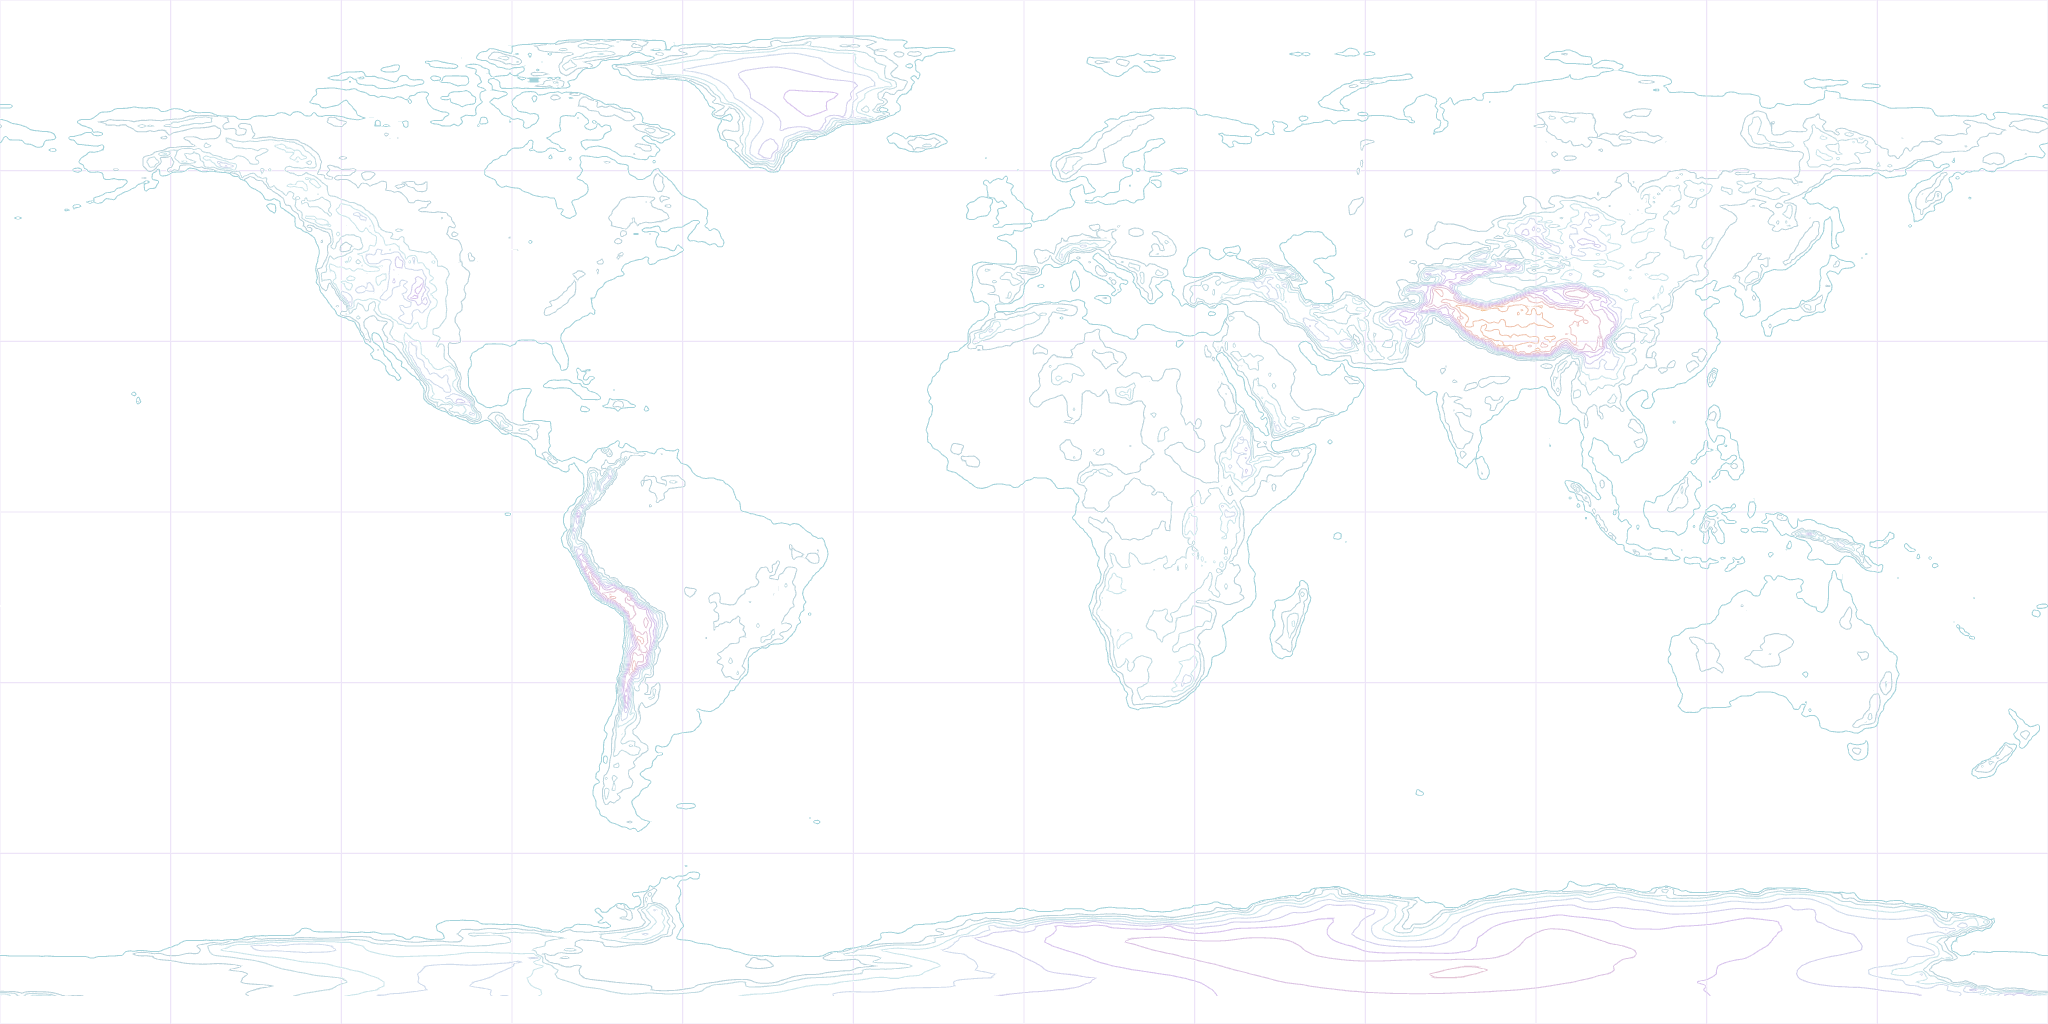
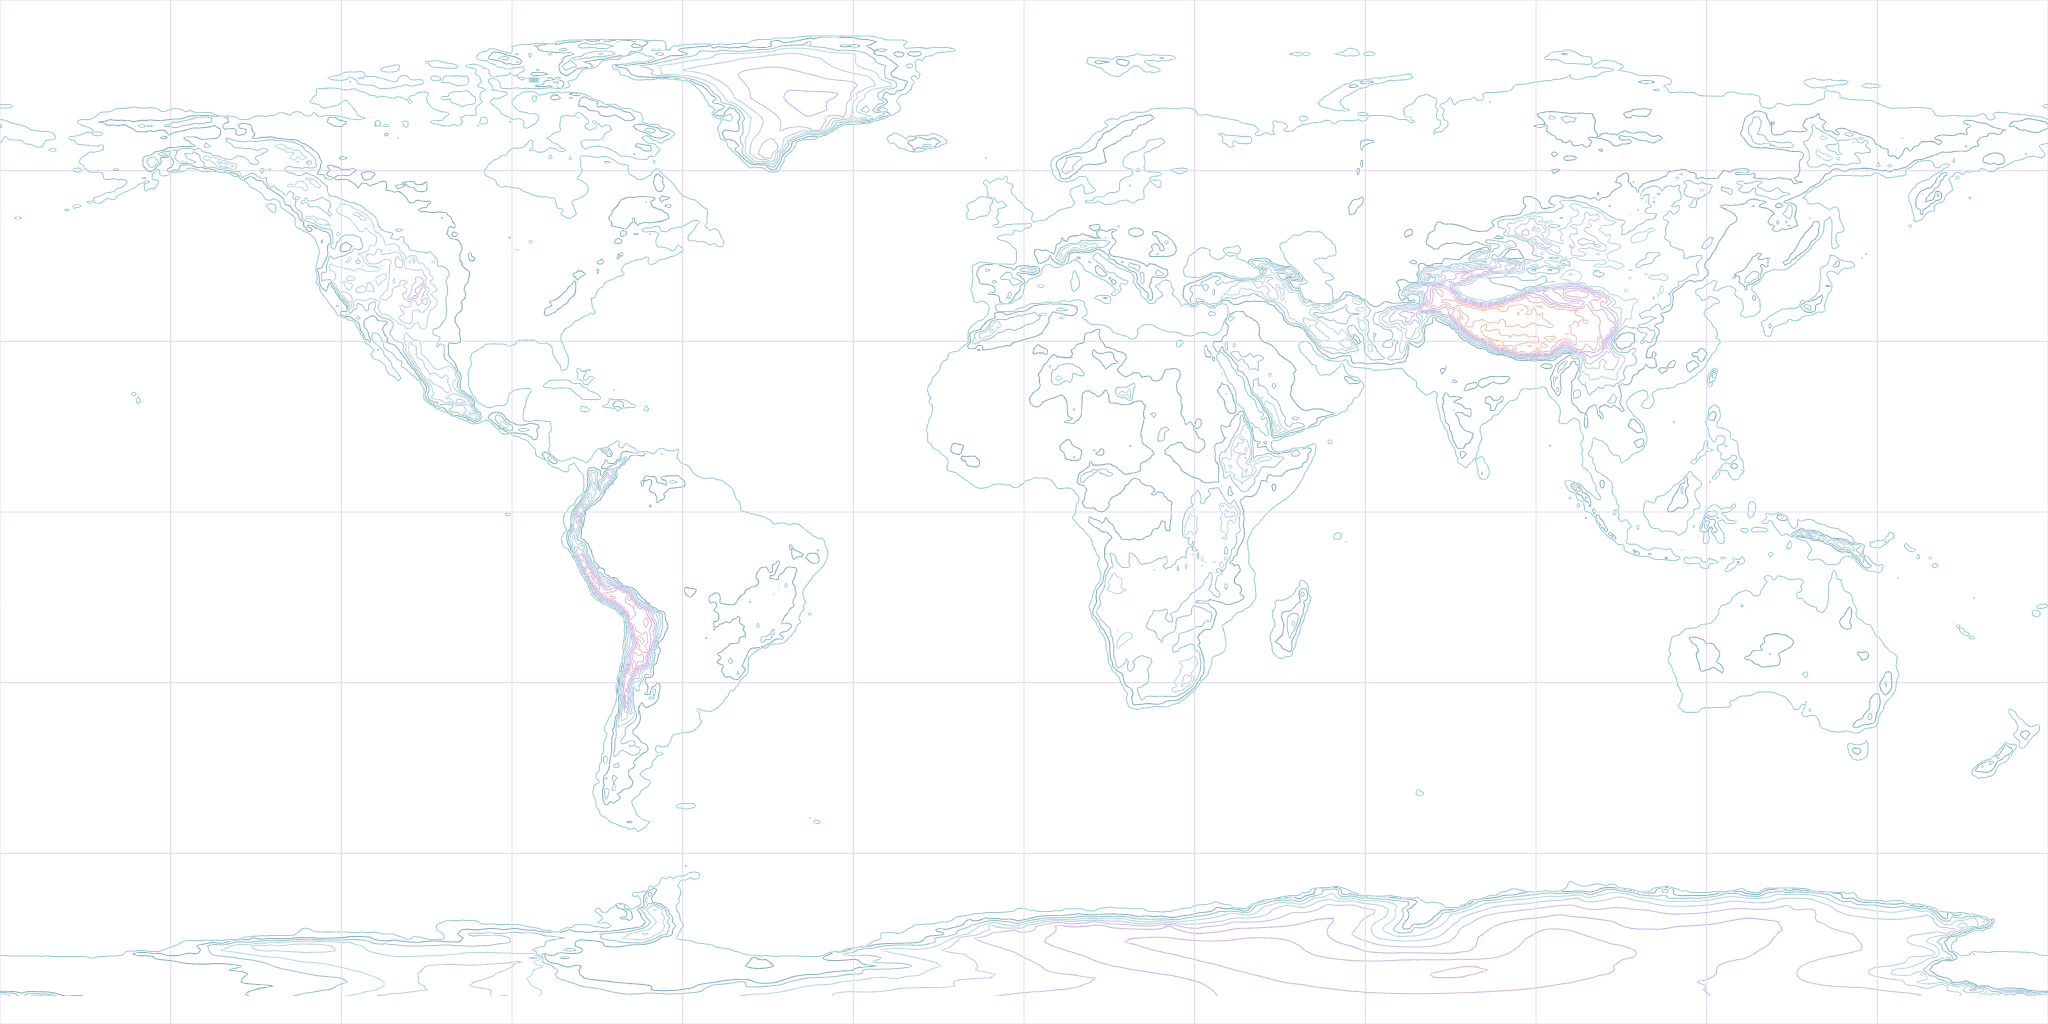
Globe: no glow, stronger lines
The background glow and rim go; lines carry the sphere: contours at
65-100% (still strongest high up), coastlines full, the graticule at 40%,
and the near side lit 0.95-1.35.

diff --git a/site/pages.ts b/site/pages.ts
@@ -485,13 +485,7 @@ const PAGE_CSS = `
       /* /why/: the words on the left, the globe turning beside them (above, on phones). */
       .why { display: grid; gap: 8px; }
       .why-globe { margin: 24px 0 0; }
-      .why-globe canvas {
-        display: block; width: min(72vw, 320px); aspect-ratio: 1; margin: 0 auto;
-        /* A faint atmosphere: foam at the rim, fading out. */
-        border-radius: 50%;
-        box-shadow: 0 0 0 1px color-mix(in srgb, #9ccfd8 14%, transparent),
-          0 0 60px -6px color-mix(in srgb, var(--iris) 28%, transparent);
-      }
+      .why-globe canvas { display: block; width: min(72vw, 320px); aspect-ratio: 1; margin: 0 auto; }
       @media (min-width: 1000px) {
         .why { grid-template-columns: minmax(0, 60ch) 1fr; column-gap: 64px; align-items: start; }
         .why-globe { grid-column: 2; grid-row: 1; position: sticky; top: 96px; margin-top: 72px; }

diff --git a/scripts/globe.ts b/scripts/globe.ts
@@ -142,13 +142,13 @@ function colour(rgb: RGB, alpha: number) {
   }
   return first;
 }
-const GRID = colour(css(ramp(0.5)), 0.3);
-const COAST = colour(hex(INK.shore), 0.92);
+const GRID = colour(css(ramp(0.5)), 0.4);
+const COAST = colour(hex(INK.shore), 1);
 const RAMP0 = palette.length;
 for (let s = 0; s < STEPS; s++) {
   const t = s / (STEPS - 1);
   // Lowlands recede, high ground glows: the map's wide-view relief emphasis.
-  colour(css(ramp(t)), 0.35 + 0.65 * t);
+  colour(css(ramp(t)), 0.65 + 0.35 * t);
 }
 
 // --- Lines -------------------------------------------------------------------------

diff --git a/src/globe.ts b/src/globe.ts
@@ -20,8 +20,8 @@ export interface GlobeOptions {
 /** The light comes from the upper left, in front: near lines catch it. */
 const LIGHT = normalise([-0.45, 0.5, 0.75]);
 /** Near-side lines run from this brightness (at the limb) to LIT (facing the light). */
-const DIM = 0.75;
-const LIT = 1.15;
+const DIM = 0.95;
+const LIT = 1.35;
 /** Far-side lines show through at this strength. */
 const THROUGH = 0.3;
 
